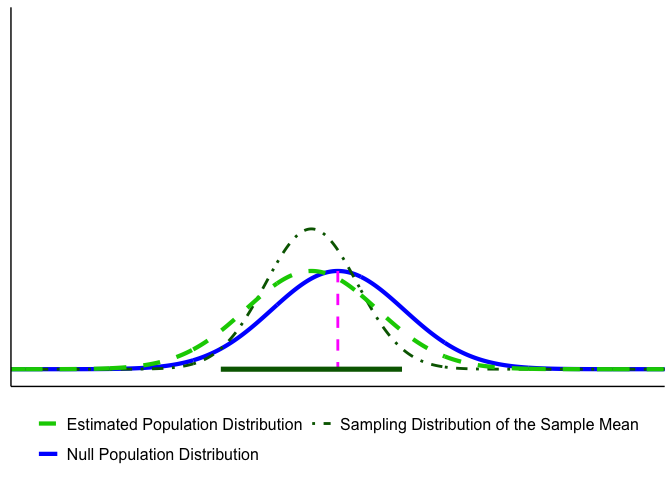
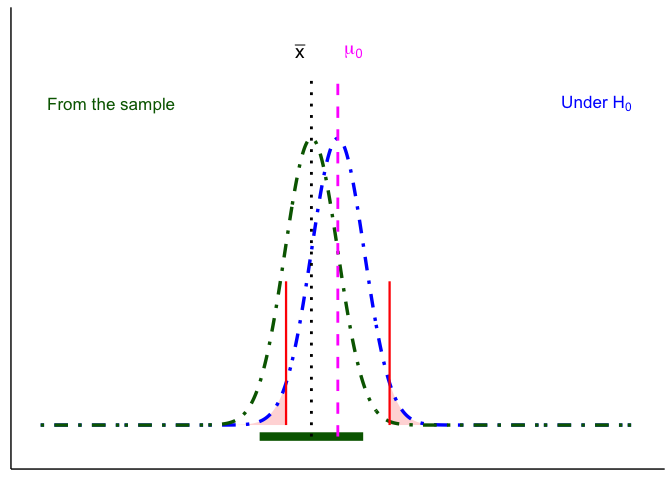
Ch4: reject/fail-to-reject figures show only the two sampling distributions, rejection regions, and the CI; fix the 3 SE caption

diff --git a/docs/04-Foundation_Inference.html b/docs/04-Foundation_Inference.html
@@ -761,17 +761,17 @@ Figure&nbsp;4.16: p-value lens: the two-sided <span class="math inline">\(p\)</s
 <p>If the observed statistic falls in either tail beyond the critical value(s), reject <span class="math inline">\(H_0\)</span>. Otherwise, fail to reject <span class="math inline">\(H_0\)</span>. Report the exact <span class="math inline">\(p\)</span> and an effect size or CI.</p>
 <p>Here are our options (for a two tailed test).</p>
 <ol type="1">
-<li><strong>Reject the Null Hypothesis (Two-Tailed Test).</strong> The sample mean falls beyond the critical values, in the rejection region. The confidence interval also excludes the null mean. In this example, the mean is more than 3 standard errors from <span class="math inline">\(\mu_0\)</span>, which is typically considered significant for common choices of <span class="math inline">\(\alpha\)</span>.</li>
+<li><strong>Reject the Null Hypothesis (Two-Tailed Test).</strong> The sample mean falls beyond the critical values, in the rejection region. The confidence interval also excludes the null mean. In this example, <span class="math inline">\(\bar{x}\)</span> is 3.75 standard errors from <span class="math inline">\(\mu_0\)</span>, well past the critical values of <span class="math inline">\(\pm 1.96\)</span>.</li>
 </ol>
 <div class="cell">
 <div class="cell-output-display">
-<div id="fig-4key.reject_2_two_tailed" class="quarto-float quarto-figure quarto-figure-center anchored" alt="A blue null population distribution centered at mu sub 0, marked with a dashed vertical line, well separated from a narrow dot-dash sampling distribution and dashed estimated population curve centered far to the left. A thick green confidence interval bar under those two curves sits entirely to the left of mu sub 0, not reaching it at all.">
+<div id="fig-4key.reject_2_two_tailed" class="quarto-float quarto-figure quarto-figure-center anchored" alt="A blue dot-dash bell curve centered on a magenta dashed line labeled mu sub 0, with red critical-value lines and shaded tails. A dark-green dot-dash bell curve of the same width sits well to the left, centered on a black dotted line labeled x-bar, which lies inside the left shaded rejection region. A thick dark-green confidence interval bar under the green curve does not reach mu sub 0.">
 <figure class="quarto-float quarto-float-fig figure">
 <div aria-describedby="fig-4key.reject_2_two_tailed-caption-0ceaefa1-69ba-4598-a22c-09a6ac19f8ca">
-<img src="04-Foundation_Inference_files/figure-html/fig-4key.reject_2_two_tailed-1.png" class="img-fluid figure-img" style="width:100.0%" alt="A blue null population distribution centered at mu sub 0, marked with a dashed vertical line, well separated from a narrow dot-dash sampling distribution and dashed estimated population curve centered far to the left. A thick green confidence interval bar under those two curves sits entirely to the left of mu sub 0, not reaching it at all.">
+<img src="04-Foundation_Inference_files/figure-html/fig-4key.reject_2_two_tailed-1.png" class="img-fluid figure-img" style="width:100.0%" alt="A blue dot-dash bell curve centered on a magenta dashed line labeled mu sub 0, with red critical-value lines and shaded tails. A dark-green dot-dash bell curve of the same width sits well to the left, centered on a black dotted line labeled x-bar, which lies inside the left shaded rejection region. A thick dark-green confidence interval bar under the green curve does not reach mu sub 0.">
 </div>
 <figcaption class="quarto-float-caption-bottom quarto-float-caption quarto-float-fig" id="fig-4key.reject_2_two_tailed-caption-0ceaefa1-69ba-4598-a22c-09a6ac19f8ca">
-Figure&nbsp;4.17: Two-sided test, reject <span class="math inline">\(H_0\)</span>: sample mean far from <span class="math inline">\(\mu_0\)</span> in either direction.
+Figure&nbsp;4.17: Two-sided test, reject <span class="math inline">\(H_0\)</span>. Blue: the sampling distribution of the sample mean under <span class="math inline">\(H_0\)</span>, with its rejection regions shaded beyond <span class="math inline">\(\pm 1.96\)</span> SE; <span class="math inline">\(\bar{x}\)</span> lands in one. Green: the sampling distribution of the sample mean from the sample, with its 95% confidence interval; <span class="math inline">\(\mu_0\)</span> falls outside it.
 </figcaption>
 </figure>
 </div>
@@ -782,13 +782,13 @@ Figure&nbsp;4.17: Two-sided test, reject <span class="math inline">\(H_0\)</span
 </ol>
 <div class="cell">
 <div class="cell-output-display">
-<div id="fig-4key.reject_1" class="quarto-float quarto-figure quarto-figure-center anchored" alt="A blue null population distribution centered at mu sub 0, marked with a dashed vertical line, overlapping closely with a wider dot-dash sampling distribution and dashed estimated population curve centered a short distance to its left. A thick green confidence interval bar under those two curves extends far enough to reach and include mu sub 0.">
+<div id="fig-4key.reject_1" class="quarto-float quarto-figure quarto-figure-center anchored" alt="A blue dot-dash bell curve centered on a magenta dashed line labeled mu sub 0, with red critical-value lines and shaded tails. A dark-green dot-dash bell curve of the same width sits just to its left, heavily overlapping it, centered on a black dotted line labeled x-bar that lies between the critical values. The thick dark-green confidence interval bar under the green curve reaches past mu sub 0.">
 <figure class="quarto-float quarto-float-fig figure">
 <div aria-describedby="fig-4key.reject_1-caption-0ceaefa1-69ba-4598-a22c-09a6ac19f8ca">
-<img src="04-Foundation_Inference_files/figure-html/fig-4key.reject_1-1.png" class="img-fluid figure-img" style="width:100.0%" alt="A blue null population distribution centered at mu sub 0, marked with a dashed vertical line, overlapping closely with a wider dot-dash sampling distribution and dashed estimated population curve centered a short distance to its left. A thick green confidence interval bar under those two curves extends far enough to reach and include mu sub 0.">
+<img src="04-Foundation_Inference_files/figure-html/fig-4key.reject_1-1.png" class="img-fluid figure-img" style="width:100.0%" alt="A blue dot-dash bell curve centered on a magenta dashed line labeled mu sub 0, with red critical-value lines and shaded tails. A dark-green dot-dash bell curve of the same width sits just to its left, heavily overlapping it, centered on a black dotted line labeled x-bar that lies between the critical values. The thick dark-green confidence interval bar under the green curve reaches past mu sub 0.">
 </div>
 <figcaption class="quarto-float-caption-bottom quarto-float-caption quarto-float-fig" id="fig-4key.reject_1-caption-0ceaefa1-69ba-4598-a22c-09a6ac19f8ca">
-Figure&nbsp;4.18: Two-sided test, fail to reject <span class="math inline">\(H_0\)</span>: sample mean not greater than critical value (within <span class="math inline">\(3\,SE\)</span> from <span class="math inline">\(\mu_0\)</span>).
+Figure&nbsp;4.18: Two-sided test, fail to reject <span class="math inline">\(H_0\)</span>. <span class="math inline">\(\bar{x}\)</span> lands 1 standard error from <span class="math inline">\(\mu_0\)</span>, inside the critical values of <span class="math inline">\(\pm 1.96\)</span> SE, and the confidence interval from the sample includes <span class="math inline">\(\mu_0\)</span>.
 </figcaption>
 </figure>
 </div>
